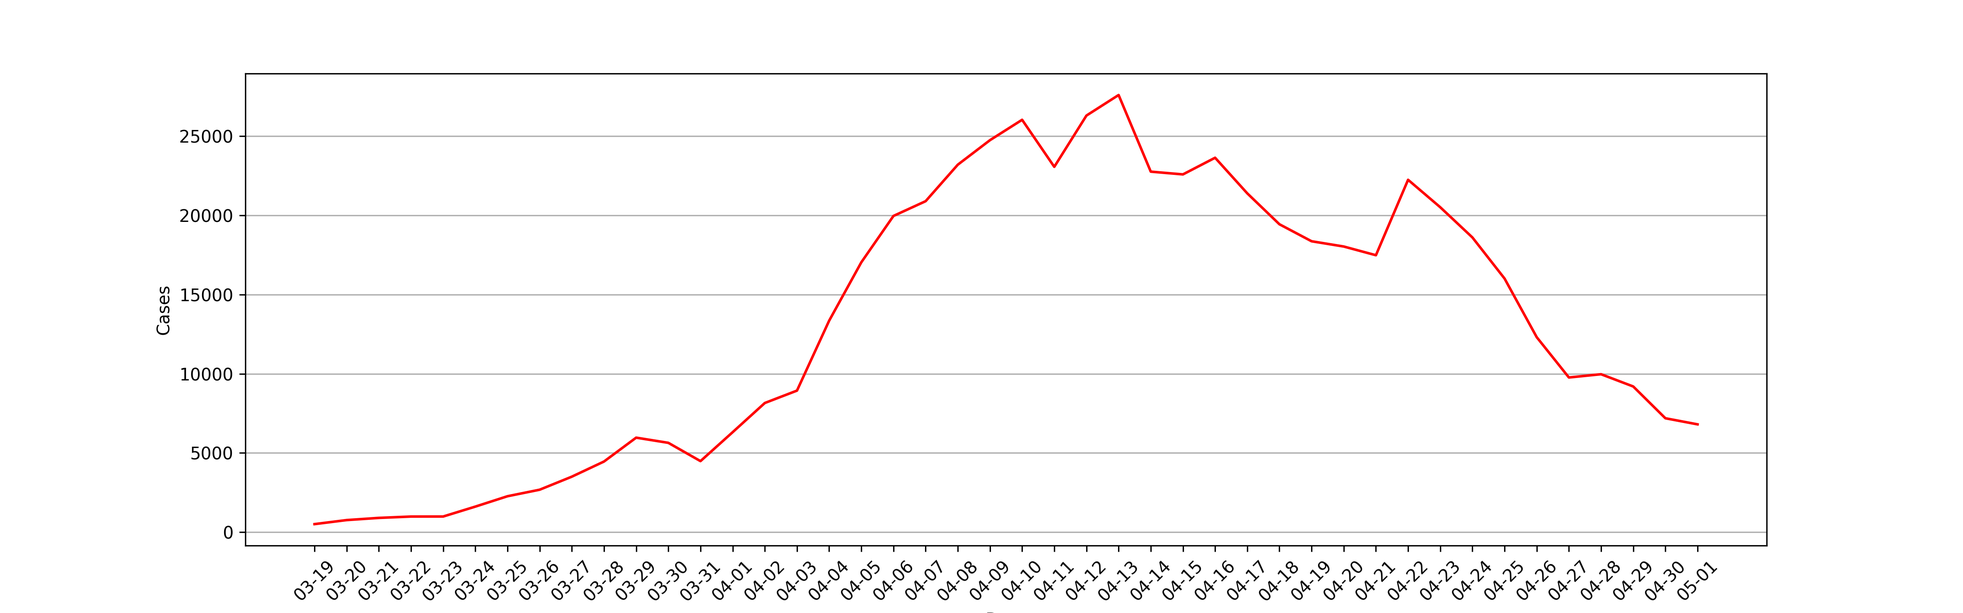
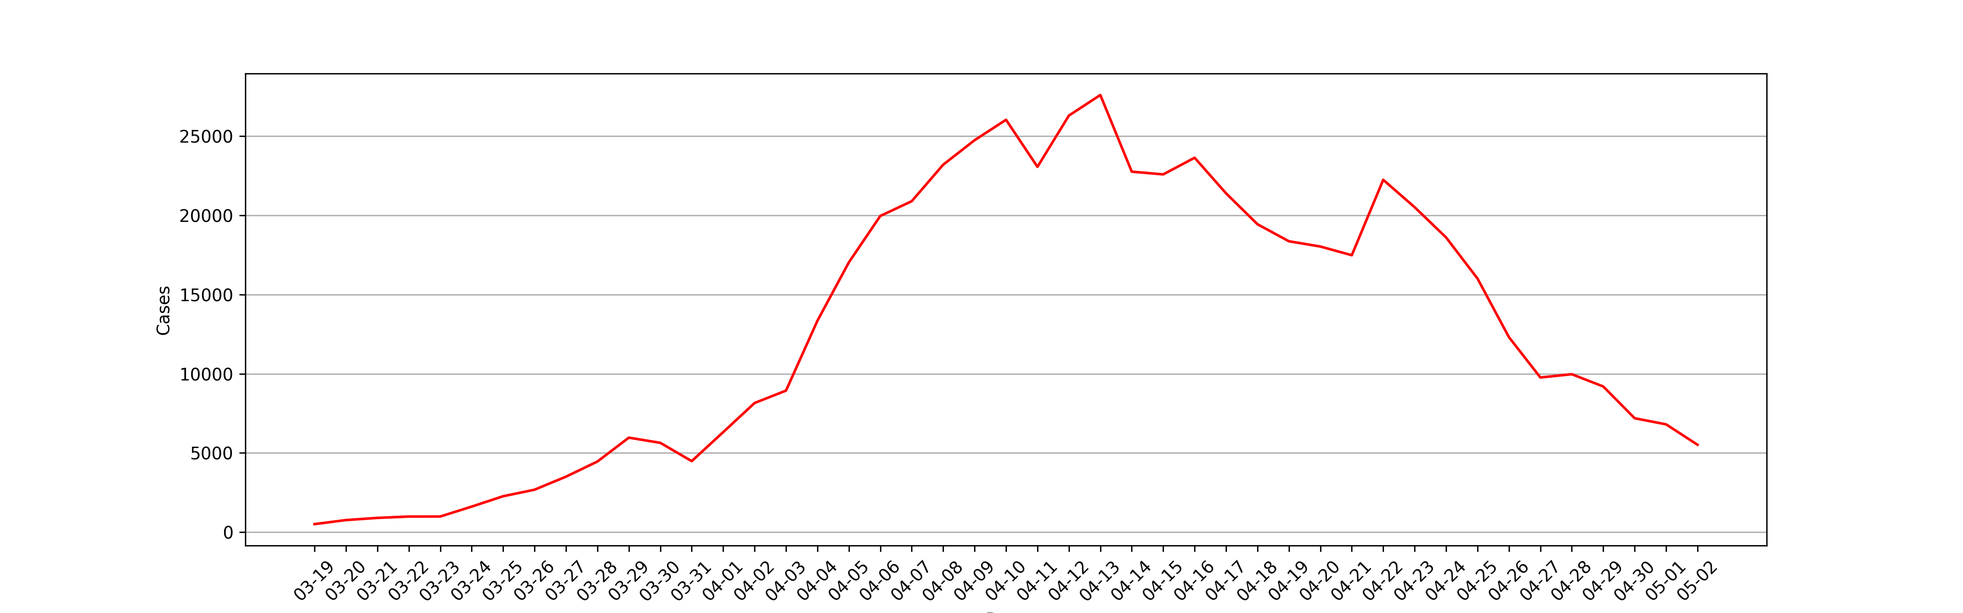
Commit by bot @ 05/03/22 10:15:01

diff --git a/archived_html/0910d1ba1f0ec78375fd4d8ded8a2810.html b/archived_html/0910d1ba1f0ec78375fd4d8ded8a2810.html
@@ -1,0 +1,151 @@
+<!DOCTYPE html>
+<html lang="zh-Hans">
+<head>
+    <meta charset="utf-8">
+    <meta http-equiv="Content-Security-Policy" content="upgrade-insecure-requests">
+    <meta name="viewport" content="width=device-width, initial-scale=1, maximum-scale=1, user-scalable=no">
+    <meta http-equiv="X-UA-Compatible" content="IE=Edge,chrome=1">
+    <meta http-equiv="Cache-Control" content="no-siteapp" />
+    <meta name="renderer" content="webkit">
+    <meta name="apple-mobile-web-app-capable" content="yes" />
+    <meta name="apple-mobile-web-app-status-bar-style" content="black" />
+    <title>上海2022年5月2日，新增本土新冠肺炎确诊病例274例 新增本土无症状感染者5395例 无境外输入性新冠肺炎确诊病例 新增境外输入性无症状感染者1例__上海市卫生健康委员会</title>
+    <meta name="ColumnDescription" content="新闻发布"><!-- * -->
+    <meta name="ColumnKeywords" content="新闻发布"><!-- * -->
+    <!--<meta name="ColumnType" content=""> * -->
+    <meta name="ColumnName" content="新闻发布"><!-- * -->
+    <meta name="ArticleTitle" content="上海2022年5月2日，新增本土新冠肺炎确诊病例274例 新增本土无症状感染者5395例 无境外输入性新冠肺炎确诊病例 新增境外输入性无症状感染者1例"><!-- * -->
+    <meta name="PubDate" content="2022-05-03"><!-- * -->
+    <meta name="ContentSource" content="上海市卫生健康委员会"><!-- * -->
+    <meta name="Author" content="上海市卫生健康委员会">
+    <meta name="Description" content="" />
+    <meta name="applicable-device" content="pc;mobile">
+    <meta name="location" content="北纬N31°11′51.89″ 东经E121°30′5.42″">
+    <!-- min CSS -->
+    <link rel="stylesheet" href="/assets/css/ETUI/ETUI3.min.css">
+    <!-- Custom CSS -->
+    <link rel="stylesheet" href="/assets/plugin/owl/owl.carousel.css">
+    <link rel="stylesheet" href="/assets/css/style.css">
+    <link rel="stylesheet" href="/assets/css/responsive.css">
+    <link rel="stylesheet" href="/assets/css/ETUI/ETUI3.Utility.css">
+    <!-- icons -->
+    <link rel="shortcut icon" href="/assets/img/ico/favicon.png">
+    <!-- 无障碍工具条 -->
+   <!-- <link rel="stylesheet" href="http://www.shanghai.gov.cn/jhelper_V2.0/jhelper_tool_style.css">
+    <script src="http://www.shanghai.gov.cn/jhelper_V2.0/wsj/jhelper_config.js" charset="gb2312"></script>
+    <noscript>不能读取工具条配置</noscript>
+    <script src="http://www.shanghai.gov.cn/jhelper_V2.0/jhelper_2.0.js" charset="gb2312"></script>
+    <noscript>不能读取工具条</noscript> 
+     -->
+    <script type="text/javascript">
+        function onsubmmit(pageIndex){
+            $("#pageIndex").val(1);
+            $("#searchField").val("0");
+            $("#timeScope").val("0");
+            $("#cmsSearchId").val("0");
+            $("#searchForm").submit();
+        }
+        function onselsubmmit(){
+            $("#pageIndex").val(1);
+            $("#searchForm").submit();
+        }
+        function psubmmit(pageIndex){
+            $("#pageIndex").val(pageIndex);
+            $("#searchForm").submit();
+        }
+        // 栏目
+        function chsubmmit(searchChId){
+            $("#pageIndex").val(1);
+            $("#searchField").val("0");
+            $("#timeScope").val("0");
+            $("#cmsSearchId").val(searchChId);
+            $("#searchForm").submit();
+        }
+    </script> 
+    <!-- 无障碍工具条 -->
+</head>
+<body>
+    <div id="accessNull"></div>
+    <div id="container">
+        <div class="channelinfo hidden"></div>
+        <script src="/assets/js/header.js"></script>
+        <div class="main" id="main">
+            <script src="/assets/js/jiansuo.js"></script>
+            <div class="main-container margin-top-15">
+                <div class="container ">
+                    <div class="relitive">
+                        <ol class="breadcrumb">
+                           <span>您现在所在的位置：</span>
+                            <li><a href="/index.html">首页</a></li>
+                            <li class="active">新闻中心</li>
+                           
+                            <li class="active">新闻发布</li>
+                           
+                        </ol>
+                        <div class="date-se">
+                            <i class="iconfont">&#xe60b;</i> <span id="time"></span>
+                        </div>
+                    </div>
+
+                    <div class="Article">
+                        <h2 id="ivs_title" class="Article-title">上海2022年5月2日，新增本土新冠肺炎确诊病例274例 新增本土无症状感染者5395例 无境外输入性新冠肺炎确诊病例 新增境外输入性无症状感染者1例</br>
+                         <h2 class="Article-title">
+                            <small id="ivs_date" class="Article-time">( 2022-05-03)</small>
+                        </h2>
+                        <div id="ivs_player" style="text-align:center;"></div>
+                        <div id="ivs_content" class="Article_content">
+                           
+                                 <p style="font-size: medium;white-space: normal;margin-top: 10px;text-indent: 40px"><span style="font-size: 20px;font-family: 仿宋_GB2312">市卫健委今早（3日）通报：2022年5月2日0</span><span style="font-size: 20px;font-family: &#39;Cambria Math&#39;, serif">—</span><span style="font-size: 20px;font-family: 仿宋_GB2312">24</span><span style="font-size: 20px;font-family: 仿宋_GB2312">时，新增本土新冠肺炎确诊病例274和无症状感染者5395例，其中155例确诊病例为既往无症状感染者转归，117例确诊病例和5324例无症状感染者在隔离管控中发现。新增境外输入性新冠肺炎无症状感染者1例，在闭环管控中发现。</span></p><p style="font-size: medium;white-space: normal;margin-top: 10px;text-indent: 40px"><span style="font-size: 20px;font-family: 仿宋_GB2312">2022</span><span style="font-size: 20px;font-family: 仿宋_GB2312">年5月2日0</span><span style="font-size: 20px;font-family: &#39;Cambria Math&#39;, serif">—</span><span style="font-size: 20px;font-family: 仿宋_GB2312">24</span><span style="font-size: 20px;font-family: 仿宋_GB2312">时，新增本土新冠肺炎确诊病例274例，含155例由既往无症状感染者转为确诊病例。新增治愈出院3981例。</span></p><p style="font-size: medium;white-space: normal;margin-top: 10px;text-indent: 40px"><strong><span style="font-size: 20px;font-family: 黑体">病例1—病例24</span></strong><span style="font-size: 20px;font-family: 仿宋_GB2312">，居住于浦东新区，</span><strong><span style="font-size: 20px;font-family: 黑体">病例25—病例27</span></strong><span style="font-size: 20px;font-family: 仿宋_GB2312">，居住于黄浦区，</span><strong><span style="font-size: 20px;font-family: 黑体">病例28—病例41</span></strong><span style="font-size: 20px;font-family: 仿宋_GB2312">，居住于徐汇区，</span><strong><span style="font-size: 20px;font-family: 黑体">病例42—病例46</span></strong><span style="font-size: 20px;font-family: 仿宋_GB2312">，居住于静安区，</span><strong><span style="font-size: 20px;font-family: 黑体">病例47</span></strong><span style="font-size: 20px;font-family: 仿宋_GB2312">，居住于普陀区，</span><strong><span style="font-size: 20px;font-family: 黑体">病例48—病例52</span></strong><span style="font-size: 20px;font-family: 仿宋_GB2312">，居住于虹口区，</span><strong><span style="font-size: 20px;font-family: 黑体">病例53—病例57</span></strong><span style="font-size: 20px;font-family: 仿宋_GB2312">，居住于杨浦区，</span><strong><span style="font-size: 20px;font-family: 黑体">病例58—病例64</span></strong><span style="font-size: 20px;font-family: 仿宋_GB2312">，居住于闵行区，</span><strong><span style="font-size: 20px;font-family: 黑体">病例65—病例81</span></strong><span style="font-size: 20px;font-family: 仿宋_GB2312">，居住于宝山区，</span><strong><span style="font-size: 20px;font-family: 黑体">病例82</span></strong><span style="font-size: 20px;font-family: 仿宋_GB2312">，居住于嘉定区，</span><strong><span style="font-size: 20px;font-family: 黑体">病例83—病例110</span></strong><span style="font-size: 20px;font-family: 仿宋_GB2312">，居住于松江区，</span><strong><span style="font-size: 20px;font-family: 黑体">病例111—病例117</span></strong><span style="font-size: 20px;font-family: 仿宋_GB2312">，居住于青浦区，均为本市闭环隔离管控人员，其间新冠病毒核酸检测结果异常，经疾控中心复核结果为阳性。经市级专家会诊，综合流行病学史、临床症状、实验室检测和影像学检查结果等，诊断为确诊病例。</span></p><p style="font-size: medium;white-space: normal;margin-top: 10px;text-indent: 40px"><strong><span style="font-size: 20px;font-family: 黑体">病例118、病例119</span></strong><span style="font-size: 20px;font-family: 仿宋_GB2312">，居住于宝山区，</span><span style="font-size: 20px;font-family: 仿宋_GB2312">在风险人群筛查中发现新冠病毒核酸检测结果异常，即被隔离管控。经疾控中心复核结果为阳性。经市级专家会诊，综合流行病学史、临床症状、实验室检测和影像学检查结果等，诊断为确诊病例。</span></p><p style="font-size: medium;white-space: normal;margin-top: 10px;text-indent: 40px"><strong><span style="font-size: 20px;font-family: 黑体">病例120—病例133</span></strong><span style="font-size: 20px;font-family: 仿宋_GB2312">，居住于浦东新区，</span><strong><span style="font-size: 20px;font-family: 黑体">病例134—病例147</span></strong><span style="font-size: 20px;font-family: 仿宋_GB2312">，居住于黄浦区，</span><strong><span style="font-size: 20px;font-family: 黑体">病例148—病例171</span></strong><span style="font-size: 20px;font-family: 仿宋_GB2312">，居住于徐汇区，</span><strong><span style="font-size: 20px;font-family: 黑体">病例172—病例175</span></strong><span style="font-size: 20px;font-family: 仿宋_GB2312">，居住于长宁区，</span><strong><span style="font-size: 20px;font-family: 黑体">病例176—病例190</span></strong><span style="font-size: 20px;font-family: 仿宋_GB2312">，居住于静安区，</span><strong><span style="font-size: 20px;font-family: 黑体">病例191—病例203</span></strong><span style="font-size: 20px;font-family: 仿宋_GB2312">，居住于虹口区，</span><strong><span style="font-size: 20px;font-family: 黑体">病例204—病例232</span></strong><span style="font-size: 20px;font-family: 仿宋_GB2312">，居住于杨浦区，</span><strong><span style="font-size: 20px;font-family: 黑体">病例233—病例253</span></strong><span style="font-size: 20px;font-family: 仿宋_GB2312">，居住于闵行区，</span><strong><span style="font-size: 20px;font-family: 黑体">病例254—病例267</span></strong><span style="font-size: 20px;font-family: 仿宋_GB2312">，居住于宝山区，</span><strong><span style="font-size: 20px;font-family: 黑体">病例268—病例270</span></strong><span style="font-size: 20px;font-family: 仿宋_GB2312">，居住于嘉定区，</span><strong><span style="font-size: 20px;font-family: 黑体">病例271</span></strong><span style="font-size: 20px;font-family: 仿宋_GB2312">，居住于松江区，</span><strong><span style="font-size: 20px;font-family: 黑体">病例272—病例274</span></strong><span style="font-size: 20px;font-family: 仿宋_GB2312">，居住于青浦区，为此前报告的本土无症状感染者。</span><span style="font-size: 20px;font-family: 仿宋_GB2312">经市级专家会诊，综合流行病学史、临床症状、实验室检测和影像学检查结果等，诊断为确诊病例。</span></p><p style="font-size: medium;white-space: normal;margin-top: 10px;text-indent: 40px"><span style="font-size: 20px;font-family: 仿宋_GB2312">2022</span><span style="font-size: 20px;font-family: 仿宋_GB2312">年5月2日0</span><span style="font-size: 20px;font-family: &#39;Cambria Math&#39;, serif">—</span><span style="font-size: 20px;font-family: 仿宋_GB2312">24</span><span style="font-size: 20px;font-family: 仿宋_GB2312">时，新增本土死亡20例。平均年龄83.95岁，最小年龄49岁，最大年龄101岁。20位患者合并有多种急慢性基础疾病和晚期肿瘤，包括伴全身广泛转移的皮肤隆突性纤维肉瘤、膀胱癌、鼻咽癌以及急性心肌梗死、冠心病、心功能不全、高血压3级（极高危）、创伤性硬膜下出血伴癫痫、阿尔兹海默症、糖尿病、自身免疫性肝病等。患者入院后，原发肿瘤或基础疾病迅速进展，经抢救无效死亡。死亡的直接原因为晚期肿瘤或基础疾病。</span></p><p style="font-size: medium;white-space: normal;margin-top: 10px;text-indent: 40px"><span style="font-size: 20px;font-family: 仿宋_GB2312">2022</span><span style="font-size: 20px;font-family: 仿宋_GB2312">年5月2日0</span><span style="font-size: 20px;font-family: &#39;Cambria Math&#39;, serif">—</span><span style="font-size: 20px;font-family: 仿宋_GB2312">24</span><span style="font-size: 20px;font-family: 仿宋_GB2312">时，新增本土无症状感染者5395例。</span></p><p style="font-size: medium;white-space: normal;margin-top: 10px;text-indent: 40px"><strong><span style="font-size: 20px;font-family: 黑体">无症状感染者1—无症状感染者1122</span></strong><span style="font-size: 20px;font-family: 仿宋_GB2312">，居住于浦东新区，</span><strong><span style="font-size: 20px;font-family: 黑体">无症状感染者1123—无症状感染者2036</span></strong><span style="font-size: 20px;font-family: 仿宋_GB2312">，居住于黄浦区，</span><strong><span style="font-size: 20px;font-family: 黑体">无症状感染者2037—无症状感染者2412</span></strong><span style="font-size: 20px;font-family: 仿宋_GB2312">，居住于徐汇区，</span><strong><span style="font-size: 20px;font-family: 黑体">无症状感染者2413—无症状感染者2553</span></strong><span style="font-size: 20px;font-family: 仿宋_GB2312">，居住于长宁区，</span><strong><span style="font-size: 20px;font-family: 黑体">无症状感染者2554—无症状感染者3147</span></strong><span style="font-size: 20px;font-family: 仿宋_GB2312">，居住于静安区，</span><strong><span style="font-size: 20px;font-family: 黑体">无症状感染者3148—无症状感染者3225</span></strong><span style="font-size: 20px;font-family: 仿宋_GB2312">，居住于普陀区，</span><strong><span style="font-size: 20px;font-family: 黑体">无症状感染者3226—无症状感染者3573</span></strong><span style="font-size: 20px;font-family: 仿宋_GB2312">，居住于虹口区，</span><strong><span style="font-size: 20px;font-family: 黑体">无症状感染者3574—无症状感染者3927</span></strong><span style="font-size: 20px;font-family: 仿宋_GB2312">，居住于杨浦区，</span><strong><span style="font-size: 20px;font-family: 黑体">无症状感染者3928—无症状感染者4186</span></strong><span style="font-size: 20px;font-family: 仿宋_GB2312">，居住于闵行区，</span><strong><span style="font-size: 20px;font-family: 黑体">无症状感染者4187—无症状感染者4777</span></strong><span style="font-size: 20px;font-family: 仿宋_GB2312">，居住于宝山区，</span><strong><span style="font-size: 20px;font-family: 黑体">无症状感染者4778—无症状感染者5052</span></strong><span style="font-size: 20px;font-family: 仿宋_GB2312">，居住于嘉定区，</span><strong><span style="font-size: 20px;font-family: 黑体">无症状感染者5053—无症状感染者5059</span></strong><span style="font-size: 20px;font-family: 仿宋_GB2312">，居住于金山区，</span><strong><span style="font-size: 20px;font-family: 黑体">无症状感染者5060—无症状感染者5098</span></strong><span style="font-size: 20px;font-family: 仿宋_GB2312">，居住于松江区，</span><strong><span style="font-size: 20px;font-family: 黑体">无症状感染者5099—无症状感染者5182</span></strong><span style="font-size: 20px;font-family: 仿宋_GB2312">，居住于青浦区，</span><strong><span style="font-size: 20px;font-family: 黑体">无症状感染者5183—无症状感染者5190</span></strong><span style="font-size: 20px;font-family: 仿宋_GB2312">，居住于奉贤区，</span><strong><span style="font-size: 20px;font-family: 黑体">无症状感染者5191—无症状感染者5324</span></strong><span style="font-size: 20px;font-family: 仿宋_GB2312">，居住于崇明区，</span><span style="font-size: 20px;font-family: 仿宋_GB2312">均为本市闭环隔离管控人员，其间新冠病毒核酸检测结果异常，经疾控中心复核结果为阳性，诊断为无症状感染者。</span></p><p style="font-size: medium;white-space: normal;text-indent: 40px"><strong><span style="font-size: 20px;font-family: 黑体">无症状感染者5325、无症状感染者5326</span></strong><span style="font-size: 20px;font-family: 仿宋_GB2312">，居住于浦东新区，</span><strong><span style="font-size: 20px;font-family: 黑体">无症状感染者5327—无症状感染者5369</span></strong><span style="font-size: 20px;font-family: 仿宋_GB2312">，居住于黄浦区，</span><strong><span style="font-size: 20px;font-family: 黑体">无症状感染者5370—无症状感染者5372</span></strong><span style="font-size: 20px;font-family: 仿宋_GB2312">，居住于徐汇区，</span><strong><span style="font-size: 20px;font-family: 黑体">无症状感染者5373—无症状感染者5378</span></strong><span style="font-size: 20px;font-family: 仿宋_GB2312">，居住于长宁区，</span><strong><span style="font-size: 20px;font-family: 黑体">无症状感染者5379、无症状感染者5380</span></strong><span style="font-size: 20px;font-family: 仿宋_GB2312">，居住于静安区，</span><strong><span style="font-size: 20px;font-family: 黑体">无症状感染者5381—无症状感染者5392</span></strong><span style="font-size: 20px;font-family: 仿宋_GB2312">，居住于宝山区，</span><strong><span style="font-size: 20px;font-family: 黑体">无症状感染者5393、无症状感染者5394</span></strong><span style="font-size: 20px;font-family: 仿宋_GB2312">，居住于奉贤区，</span><strong><span style="font-size: 20px;font-family: 黑体">无症状感染者5395</span></strong><span style="font-size: 20px;font-family: 仿宋_GB2312">，居住于崇明区，在风险人群筛查中发现新冠病毒核酸检测结果异常，即被隔离管控。经疾控中心复核结果为阳性，诊断为无症状感染者。</span></p><p style="font-size: medium;white-space: normal;text-indent: 40px"><span style="font-size: 20px;font-family: 仿宋_GB2312">2022</span><span style="font-size: 20px;font-family: 仿宋_GB2312">年5月2日0</span><span style="font-size: 20px;font-family: 等线">—</span><span style="font-size: 20px;font-family: 仿宋_GB2312">24</span><span style="font-size: 20px;font-family: 仿宋_GB2312">时，无新增境外输入性新冠肺炎确诊病例。新增治愈出院1例，来自中国香港。</span></p><p style="font-size: medium;white-space: normal;text-indent: 40px"><span style="font-size: 20px;font-family: 仿宋_GB2312">2022</span><span style="font-size: 20px;font-family: 仿宋_GB2312">年5月2日0</span><span style="font-size: 20px;font-family: 等线">—</span><span style="font-size: 20px;font-family: 仿宋_GB2312">24</span><span style="font-size: 20px;font-family: 仿宋_GB2312">时，新增境外输入性无症状感染者1例。</span></p><p style="font-size: medium;white-space: normal;text-indent: 40px"><strong><span style="font-size: 20px;font-family: 黑体">该无症状感染者</span></strong><span style="font-size: 20px;font-family: 仿宋_GB2312">为中国籍，在芬兰工作，自芬兰出发，于2022年4月29日抵达上海浦东国际机场，入关后即被集中隔离观察，其间例行核酸检测异常。经排查，区疾控中心新冠病毒核酸检测结果为阳性。综合流行病学史、临床症状、实验室检测和影像学检查结果等，诊断为无症状感染者。</span></p><p style="font-size: medium;white-space: normal;text-indent: 40px"><span style="font-size: 20px;font-family: 仿宋_GB2312">该境外输入性无症状感染者已转至定点医疗机构医学观察，已追踪同航班密切接触者26人，均已落实集中隔离观察。</span></p><p style="font-size: medium;white-space: normal;text-indent: 40px"><span style="font-size: 20px;font-family: 仿宋_GB2312">2022</span><span style="font-size: 20px;font-family: 仿宋_GB2312">年5月2日0</span><span style="font-size: 20px;font-family: 等线">—</span><span style="font-size: 20px;font-family: 仿宋_GB2312">24</span><span style="font-size: 20px;font-family: 仿宋_GB2312">时，解除医学观察无症状感染者27124例，其中本土无症状感染者27121例，境外输入性无症状感染者3例。</span></p><p style="font-size: medium;white-space: normal;margin-top: 10px;text-indent: 40px"><span style="font-size: 20px;font-family: 仿宋_GB2312">2022</span><span style="font-size: 20px;font-family: 仿宋_GB2312">年2月26日0时至2022年5月2日24时，累计本土确诊54365例，治愈出院40496例，在院治疗13395例（其中重型488例，危重型88例），死亡474例。现有待排查的疑似病例0例。</span></p><p style="font-size: medium;white-space: normal;margin-top: 10px;text-indent: 40px"><span style="font-size: 20px;font-family: 仿宋_GB2312">截至2022年5月2日24时，累计境外输入性确诊病例4585例，出院4579例，在院治疗6例。现有待排查的疑似病例1例。</span></p><p style="font-size: medium;white-space: normal;margin-top: 10px"><span style="font-size: 20px;font-family: Calibri, sans-serif">&nbsp;</span></p><table align="center" cellspacing="0" cellpadding="0" width="544"><tbody><tr style="height: 24px" class="firstRow"><td width="379" colspan="2" style="border-width: 1px; border-color: black; padding: 0px; border-style: solid;" height="24"><p style="text-align: center"><strong><span style="font-size: 19px;font-family: 仿宋_GB2312">区域</span></strong></p></td><td width="165" style="border-width: 1px; border-top-color: black; border-right-color: black; border-bottom-color: black; border-style: solid; border-left-color: initial; padding: 0px;" height="24"><p style="text-align: center"><strong><span style="font-size: 19px;font-family: 仿宋_GB2312">在院治疗确诊病例</span></strong></p></td></tr><tr style="height: 42px"><td width="213" rowspan="4" style="border-width: 1px; border-right-color: black; border-bottom-color: black; border-left-color: black; border-style: solid; border-top-color: initial; padding: 0px;" height="42"><p style="text-align: center"><span style="font-size: 19px;font-family: 仿宋_GB2312">境外输入人员</span></p><p style="text-align: center"><span style="font-size: 19px;font-family: 仿宋_GB2312">（按输入地分）</span></p></td><td width="165" valign="top" style="border-width: 1px; border-style: solid; border-top-color: initial; border-left-color: initial; border-bottom-color: black; border-right-color: black; padding: 0px;" height="42"><p style="text-align: center;vertical-align: middle"><span style="font-size: 19px;font-family: 仿宋_GB2312">加拿大</span></p></td><td width="165" valign="top" style="border-width: 1px; border-style: solid; border-top-color: initial; border-left-color: initial; border-bottom-color: black; border-right-color: black; padding: 0px;" height="42"><p style="text-align: center;vertical-align: middle"><span style="font-size: 19px;font-family: 仿宋_GB2312">3</span></p></td></tr><tr style="height: 33px"><td width="165" valign="top" style="border-width: 1px; border-style: solid; border-top-color: initial; border-left-color: initial; border-bottom-color: black; border-right-color: black; padding: 0px;" height="33"><p style="text-align: center;vertical-align: middle"><span style="font-size: 19px;font-family: 仿宋_GB2312">科特迪瓦</span></p></td><td width="165" valign="top" style="border-width: 1px; border-style: solid; border-top-color: initial; border-left-color: initial; border-bottom-color: black; border-right-color: black; padding: 0px;" height="33"><p style="text-align: center;vertical-align: middle"><span style="font-size: 19px;font-family: 仿宋_GB2312">1</span></p></td></tr><tr style="height: 33px"><td width="165" valign="top" style="border-width: 1px; border-style: solid; border-top-color: initial; border-left-color: initial; border-bottom-color: black; border-right-color: black; padding: 0px;" height="33"><p style="text-align: center;vertical-align: middle"><span style="font-size: 19px;font-family: 仿宋_GB2312">法国</span></p></td><td width="165" valign="top" style="border-width: 1px; border-style: solid; border-top-color: initial; border-left-color: initial; border-bottom-color: black; border-right-color: black; padding: 0px;" height="33"><p style="text-align: center;vertical-align: middle"><span style="font-size: 19px;font-family: 仿宋_GB2312">1</span></p></td></tr><tr style="height: 33px"><td width="165" valign="top" style="border-width: 1px; border-style: solid; border-top-color: initial; border-left-color: initial; border-bottom-color: black; border-right-color: black; padding: 0px;" height="33"><p style="text-align: center;vertical-align: middle"><span style="font-size: 19px;font-family: 仿宋_GB2312">乌干达</span></p></td><td width="165" valign="top" style="border-width: 1px; border-style: solid; border-top-color: initial; border-left-color: initial; border-bottom-color: black; border-right-color: black; padding: 0px;" height="33"><p style="text-align: center;vertical-align: middle"><span style="font-size: 19px;font-family: 仿宋_GB2312">1</span></p></td></tr><tr style="height: 33px"><td width="213" rowspan="16" style="border-width: 1px; border-right-color: black; border-bottom-color: black; border-left-color: black; border-style: solid; border-top-color: initial; padding: 0px;" height="33"><p style="text-indent: 19px"><span style="font-size: 19px;font-family: 仿宋_GB2312">本市居住或工作地</span></p></td><td width="165" style="border-width: 1px; border-style: solid; border-top-color: initial; border-left-color: initial; border-bottom-color: black; border-right-color: black; padding: 0px;" height="33"><p style="text-align: center;vertical-align: middle"><span style="font-size: 19px;font-family: 仿宋_GB2312">浦东</span></p></td><td width="165" style="border-width: 1px; border-style: solid; border-top-color: initial; border-left-color: initial; border-bottom-color: black; border-right-color: black; padding: 0px;" height="33"><p style="text-align: center"><span style="font-size: 19px;font-family: 仿宋_GB2312">2093</span></p></td></tr><tr style="height: 33px"><td width="165" style="border-width: 1px; border-style: solid; border-top-color: initial; border-left-color: initial; border-bottom-color: black; border-right-color: black; padding: 0px;" height="33"><p style="text-align: center;vertical-align: middle"><span style="font-size: 19px;font-family: 仿宋_GB2312">黄浦</span></p></td><td width="165" style="border-width: 1px; border-style: solid; border-top-color: initial; border-left-color: initial; border-bottom-color: black; border-right-color: black; padding: 0px;" height="33"><p style="text-align: center"><span style="font-size: 19px;font-family: 仿宋_GB2312">2107</span></p></td></tr><tr style="height: 33px"><td width="165" style="border-width: 1px; border-style: solid; border-top-color: initial; border-left-color: initial; border-bottom-color: black; border-right-color: black; padding: 0px;" height="33"><p style="text-align: center;vertical-align: middle"><span style="font-size: 19px;font-family: 仿宋_GB2312">徐汇</span></p></td><td width="165" style="border-width: 1px; border-style: solid; border-top-color: initial; border-left-color: initial; border-bottom-color: black; border-right-color: black; padding: 0px;" height="33"><p style="text-align: center"><span style="font-size: 19px;font-family: 仿宋_GB2312">1938</span></p></td></tr><tr style="height: 33px"><td width="165" style="border-width: 1px; border-style: solid; border-top-color: initial; border-left-color: initial; border-bottom-color: black; border-right-color: black; padding: 0px;" height="33"><p style="text-align: center;vertical-align: middle"><span style="font-size: 19px;font-family: 仿宋_GB2312">长宁</span></p></td><td width="165" style="border-width: 1px; border-style: solid; border-top-color: initial; border-left-color: initial; border-bottom-color: black; border-right-color: black; padding: 0px;" height="33"><p style="text-align: center"><span style="font-size: 19px;font-family: 仿宋_GB2312">797</span></p></td></tr><tr style="height: 33px"><td width="165" style="border-width: 1px; border-style: solid; border-top-color: initial; border-left-color: initial; border-bottom-color: black; border-right-color: black; padding: 0px;" height="33"><p style="text-align: center;vertical-align: middle"><span style="font-size: 19px;font-family: 仿宋_GB2312">静安</span></p></td><td width="165" style="border-width: 1px; border-style: solid; border-top-color: initial; border-left-color: initial; border-bottom-color: black; border-right-color: black; padding: 0px;" height="33"><p style="text-align: center"><span style="font-size: 19px;font-family: 仿宋_GB2312">1182</span></p></td></tr><tr style="height: 33px"><td width="165" style="border-width: 1px; border-style: solid; border-top-color: initial; border-left-color: initial; border-bottom-color: black; border-right-color: black; padding: 0px;" height="33"><p style="text-align: center;vertical-align: middle"><span style="font-size: 19px;font-family: 仿宋_GB2312">普陀</span></p></td><td width="165" style="border-width: 1px; border-style: solid; border-top-color: initial; border-left-color: initial; border-bottom-color: black; border-right-color: black; padding: 0px;" height="33"><p style="text-align: center"><span style="font-size: 19px;font-family: 仿宋_GB2312">592</span></p></td></tr><tr style="height: 33px"><td width="165" style="border-width: 1px; border-style: solid; border-top-color: initial; border-left-color: initial; border-bottom-color: black; border-right-color: black; padding: 0px;" height="33"><p style="text-align: center;vertical-align: middle"><span style="font-size: 19px;font-family: 仿宋_GB2312">虹口</span></p></td><td width="165" style="border-width: 1px; border-style: solid; border-top-color: initial; border-left-color: initial; border-bottom-color: black; border-right-color: black; padding: 0px;" height="33"><p style="text-align: center"><span style="font-size: 19px;font-family: 仿宋_GB2312">1136</span></p></td></tr><tr style="height: 33px"><td width="165" style="border-width: 1px; border-style: solid; border-top-color: initial; border-left-color: initial; border-bottom-color: black; border-right-color: black; padding: 0px;" height="33"><p style="text-align: center;vertical-align: middle"><span style="font-size: 19px;font-family: 仿宋_GB2312">杨浦</span></p></td><td width="165" style="border-width: 1px; border-style: solid; border-top-color: initial; border-left-color: initial; border-bottom-color: black; border-right-color: black; padding: 0px;" height="33"><p style="text-align: center"><span style="font-size: 19px;font-family: 仿宋_GB2312">893</span></p></td></tr><tr style="height: 33px"><td width="165" style="border-width: 1px; border-style: solid; border-top-color: initial; border-left-color: initial; border-bottom-color: black; border-right-color: black; padding: 0px;" height="33"><p style="text-align: center;vertical-align: middle"><span style="font-size: 19px;font-family: 仿宋_GB2312">闵行</span></p></td><td width="165" style="border-width: 1px; border-style: solid; border-top-color: initial; border-left-color: initial; border-bottom-color: black; border-right-color: black; padding: 0px;" height="33"><p style="text-align: center"><span style="font-size: 19px;font-family: 仿宋_GB2312">1082</span></p></td></tr><tr style="height: 33px"><td width="165" style="border-width: 1px; border-style: solid; border-top-color: initial; border-left-color: initial; border-bottom-color: black; border-right-color: black; padding: 0px;" height="33"><p style="text-align: center;vertical-align: middle"><span style="font-size: 19px;font-family: 仿宋_GB2312">宝山</span></p></td><td width="165" style="border-width: 1px; border-style: solid; border-top-color: initial; border-left-color: initial; border-bottom-color: black; border-right-color: black; padding: 0px;" height="33"><p style="text-align: center"><span style="font-size: 19px;font-family: 仿宋_GB2312">850</span></p></td></tr><tr style="height: 33px"><td width="165" style="border-width: 1px; border-style: solid; border-top-color: initial; border-left-color: initial; border-bottom-color: black; border-right-color: black; padding: 0px;" height="33"><p style="text-align: center;vertical-align: middle"><span style="font-size: 19px;font-family: 仿宋_GB2312">嘉定</span></p></td><td width="165" style="border-width: 1px; border-style: solid; border-top-color: initial; border-left-color: initial; border-bottom-color: black; border-right-color: black; padding: 0px;" height="33"><p style="text-align: center"><span style="font-size: 19px;font-family: 仿宋_GB2312">60</span></p></td></tr><tr style="height: 33px"><td width="165" style="border-width: 1px; border-style: solid; border-top-color: initial; border-left-color: initial; border-bottom-color: black; border-right-color: black; padding: 0px;" height="33"><p style="text-align: center;vertical-align: middle"><span style="font-size: 19px;font-family: 仿宋_GB2312">金山</span></p></td><td width="165" style="border-width: 1px; border-style: solid; border-top-color: initial; border-left-color: initial; border-bottom-color: black; border-right-color: black; padding: 0px;" height="33"><p style="text-align: center"><span style="font-size: 19px;font-family: 仿宋_GB2312">4</span></p></td></tr><tr style="height: 33px"><td width="165" style="border-width: 1px; border-style: solid; border-top-color: initial; border-left-color: initial; border-bottom-color: black; border-right-color: black; padding: 0px;" height="33"><p style="text-align: center;vertical-align: middle"><span style="font-size: 19px;font-family: 仿宋_GB2312">松江</span></p></td><td width="165" style="border-width: 1px; border-style: solid; border-top-color: initial; border-left-color: initial; border-bottom-color: black; border-right-color: black; padding: 0px;" height="33"><p style="text-align: center"><span style="font-size: 19px;font-family: 仿宋_GB2312">75</span></p></td></tr><tr style="height: 33px"><td width="165" style="border-width: 1px; border-style: solid; border-top-color: initial; border-left-color: initial; border-bottom-color: black; border-right-color: black; padding: 0px;" height="33"><p style="text-align: center;vertical-align: middle"><span style="font-size: 19px;font-family: 仿宋_GB2312">青浦</span></p></td><td width="165" style="border-width: 1px; border-style: solid; border-top-color: initial; border-left-color: initial; border-bottom-color: black; border-right-color: black; padding: 0px;" height="33"><p style="text-align: center"><span style="font-size: 19px;font-family: 仿宋_GB2312">296</span></p></td></tr><tr style="height: 33px"><td width="165" style="border-width: 1px; border-style: solid; border-top-color: initial; border-left-color: initial; border-bottom-color: black; border-right-color: black; padding: 0px;" height="33"><p style="text-align: center;vertical-align: middle"><span style="font-size: 19px;font-family: 仿宋_GB2312">奉贤</span></p></td><td width="165" style="border-width: 1px; border-style: solid; border-top-color: initial; border-left-color: initial; border-bottom-color: black; border-right-color: black; padding: 0px;" height="33"><p style="text-align: center"><span style="font-size: 19px;font-family: 仿宋_GB2312">86</span></p></td></tr><tr style="height: 33px"><td width="165" style="border-width: 1px; border-style: solid; border-top-color: initial; border-left-color: initial; border-bottom-color: black; border-right-color: black; padding: 0px;" height="33"><p style="text-align: center;vertical-align: middle"><span style="font-size: 19px;font-family: 仿宋_GB2312">崇明</span></p></td><td width="165" style="border-width: 1px; border-style: solid; border-top-color: initial; border-left-color: initial; border-bottom-color: black; border-right-color: black; padding: 0px;" height="33"><p style="text-align: center"><span style="font-size: 19px;font-family: 仿宋_GB2312">204</span></p></td></tr><tr style="height: 33px"><td width="379" colspan="2" style="border-width: 1px; border-right-color: black; border-bottom-color: black; border-left-color: black; border-style: solid; border-top-color: initial; padding: 0px;" height="33"><p style="text-align: center"><span style="font-size: 19px;font-family: 仿宋_GB2312">合计</span></p></td><td width="165" style="border-width: 1px; border-style: solid; border-top-color: initial; border-left-color: initial; border-bottom-color: black; border-right-color: black; padding: 0px;" height="33"><p style="text-align: center"><span style="font-size: 19px;font-family: 仿宋_GB2312">13401</span></p></td></tr></tbody></table><p style="font-size: medium;white-space: normal;margin-top: 10px;text-indent: 43px"><span style="font-size: 21px;font-family: Calibri, sans-serif">&nbsp;</span></p><p style="font-size: medium;white-space: normal;margin-top: 10px;text-indent: 43px"><span style="font-size: 21px;font-family: Calibri, sans-serif">&nbsp;</span></p><p><br/></p>
+                        </div>
+                        </div>
+                    </div>
+                </div>
+            </div>
+        </div>
+        <script src="/assets/js/footer.js"></script>
+        </div>
+    <!--Main JS-->
+    <script src="/assets/js/ETUI/jquery.min.1.12.4.js"></script>
+    <!--[if lt IE 9]>
+    <script src="/assets/js/ETUI/html5shiv.min.js"></script>
+    <script src="/assets/js/ETUI/respond.min.js"></script>
+    <![endif]-->
+    <script src="/assets/js/ETUI/ETUI3.min.js"></script>
+    <script src="/assets/plugin/owl/owl.carousel.min.js"></script>
+    <!--Custom JS-->
+    <script src="/assets/js/main.js"></script>
+    <script src="/assets/js/language.js"></script>
+    <!-- <script src="/assets/js/Time.js"></script> -->
+    <!--
+  <script src="/assets/js/jhelper_config.js" charset="gb2312"></script>
+<script type="text/javascript" src="https://jhelper.shanghai.gov.cn/publicJS/3100000010.js"></script>
+-->
+<script src="https://wsjkw.sh.gov.cn/wza/jhelper_config.js" charset="gb2312"></script>
+    <script type="text/javascript" src="http://jhelper.shanghai.gov.cn/publicJS/3100000010.js"></script>
+   <!-- <script type="text/javascript" src="http://voice.ewdcloud.com.cn:9292/js/ew_msc.js"></script>-->
+    <script>
+        jQuery(document).ready(function () {
+            Main.init();
+        });
+        jQuery(document).ready(function () {
+	        getToolbarMod();
+        });
+    </script>
+    <script>
+        function currentTime(){
+            var d = new Date(),str = '';
+            str += d.getFullYear()+'年';
+            str  += d.getMonth() + 1+'月';
+            str  += d.getDate()+'日';
+            var a = new Array("日", "一", "二", "三", "四", "五", "六");
+            var week = new Date().getDay();
+            var tody = "星期"+ a[week];
+            str +=' ';
+            str  += tody ;
+            return str;
+
+        }
+        setInterval(function(){$('#time').html(currentTime)},1000);
+    </script>
+</body>
+</html>

diff --git a/README.md b/README.md
@@ -14,6 +14,7 @@ This project will be updated every day before Shanghai reopens. JSON files with 
 
 | Date/Details | New Cases  | Deaths | Confirmed Cases | Asymptomatic Cases | A2C Cases(*) |
 | ---- | ---------- | ---------- | ---------------- | ----------------- | ---------------------------- |
+| 2022-05-02 | 5514 | 20 | 274 | 5395 | 155 |
 | 2022-05-01 | 6804 | 32 | 727 | 6606 | 529 |
 | 2022-04-30 | 7189 | 38 | 788 | 7084 | 683 |
 | 2022-04-29 | 9196 | 47 | 1249 | 8932 | 985 |
@@ -67,6 +68,7 @@ This project will be updated every day before Shanghai reopens. JSON files with 
 
 | Date | Total Cases  | Total Deaths | Case‑Fatality |
 | ---- | ---------- | ---------- | ---------- |
+| 2022-05-02 | 582196 | 449 | 0.0771% |
 | 2022-05-01 | 576682 | 429 | 0.0744% |
 | 2022-04-30 | 569878 | 397 | 0.0697% |
 | 2022-04-29 | 562689 | 359 | 0.0638% |
